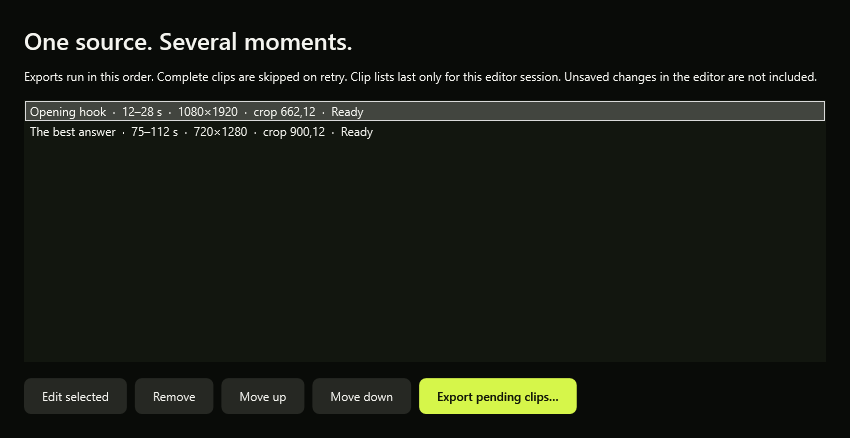
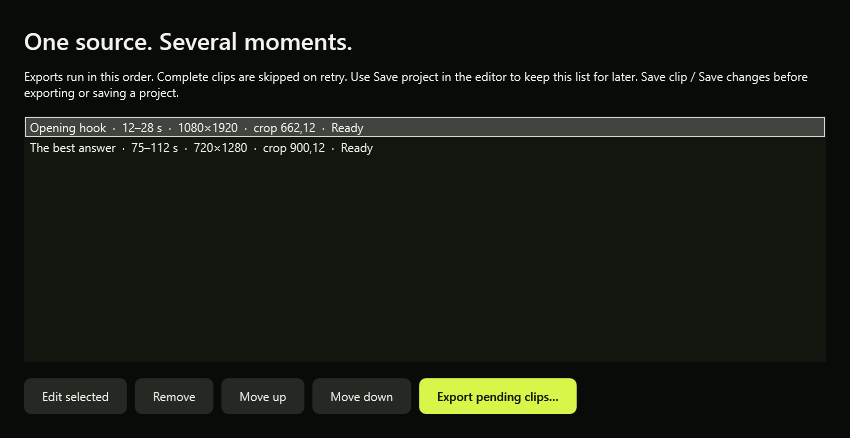
feat: save and reopen verified clip projects in v0.9.0

Changed region(s): [[0.0306, 0.1484, 0.9788, 0.3562]]

diff --git a/source/ClipProject.cs b/source/ClipProject.cs
@@ -1,0 +1,101 @@
+using System;
+using System.Collections.Generic;
+using System.IO;
+using System.Linq;
+using System.Security.Cryptography;
+using System.Text;
+using System.Threading;
+using System.Web.Script.Serialization;
+
+namespace ClearFrame {
+    public sealed class ClipRecipe {
+        public string Name;
+        public double Start, End;
+        public int X, Y, Width;
+        public NamedClip ToClip(){return new NamedClip{Name=Name,Start=Start,End=End,X=X,Y=Y,Width=Width};}
+    }
+    public sealed class ClipProjectData {
+        public int Version;
+        public string Kind, SourcePath, SourceSha256;
+        public long SourceLength;
+        public VideoInfo SourceInfo;
+        public List<ClipRecipe> Clips;
+    }
+    public static class ClipProject {
+        public const string Extension=".cfclips.json";
+        static JavaScriptSerializer Serializer(){return new JavaScriptSerializer{MaxJsonLength=1048576,RecursionLimit=16};}
+        public static List<ClipRecipe> Recipes(IEnumerable<NamedClip> clips){return clips.Select(c=>new ClipRecipe{Name=c.Name,Start=c.Start,End=c.End,X=c.X,Y=c.Y,Width=c.Width}).ToList();}
+        public static string Snapshot(string source,IEnumerable<NamedClip> clips){return Serializer().Serialize(new{Source=source,Clips=Recipes(clips)});}
+        public static void Validate(ClipProjectData data){
+            if(data==null||data.Kind!="ClearFrame clip project"||data.Version!=1)throw new InvalidDataException("This is not a supported ClearFrame clip project (version 1).");
+            if(string.IsNullOrWhiteSpace(data.SourcePath)||data.SourcePath.Length>32767||!Path.IsPathRooted(data.SourcePath)||data.SourceLength<=0||!System.Text.RegularExpressions.Regex.IsMatch(data.SourceSha256??"",@"^[a-f0-9]{64}$"))throw new InvalidDataException("The project source reference is invalid.");
+            Path.GetFullPath(data.SourcePath);
+            var info=data.SourceInfo;if(info==null||info.Width<18||info.Height<32||info.Width>65536||info.Height>65536||info.Width%2!=0||info.Height%2!=0||double.IsNaN(info.Duration)||double.IsInfinity(info.Duration)||info.Duration<=0||double.IsNaN(info.PixelAspect)||double.IsInfinity(info.PixelAspect)||Math.Abs(info.PixelAspect-1)>0.001)throw new InvalidDataException("The project source metadata is invalid.");
+            if(data.Clips==null||data.Clips.Count>ClipBatch.Limit)throw new InvalidDataException("A clip project can contain up to 50 saved clips.");
+            var names=new HashSet<string>(StringComparer.OrdinalIgnoreCase);foreach(var recipe in data.Clips){if(recipe==null)throw new InvalidDataException("The project contains an empty clip.");ClipBatch.Validate(recipe.ToClip(),info);if(!names.Add(recipe.Name))throw new InvalidDataException("The project contains duplicate clip names.");}
+        }
+        public static string Fingerprint(string source,CancellationToken token){
+            using(var stream=new FileStream(source,FileMode.Open,FileAccess.Read,FileShare.Read))using(var sha=SHA256.Create()){
+                var buffer=new byte[1048576];int read;while((read=stream.Read(buffer,0,buffer.Length))>0){token.ThrowIfCancellationRequested();sha.TransformBlock(buffer,0,read,buffer,0);}token.ThrowIfCancellationRequested();sha.TransformFinalBlock(new byte[0],0,0);return BitConverter.ToString(sha.Hash).Replace("-","").ToLowerInvariant();
+            }
+        }
+        public static ClipProjectData Capture(string source,VideoInfo info,IEnumerable<NamedClip> clips,CancellationToken token){
+            var file=new FileInfo(source);long length=file.Length;DateTime modified=file.LastWriteTimeUtc;
+            var data=new ClipProjectData{Kind="ClearFrame clip project",Version=1,SourcePath=Path.GetFullPath(source),SourceInfo=info,SourceLength=length,Clips=Recipes(clips),SourceSha256=Fingerprint(source,token)};
+            file.Refresh();if(file.Length!=length||file.LastWriteTimeUtc!=modified)throw new IOException("The source changed while the project was being saved. Try again.");Validate(data);return data;
+        }
+        public static ClipProjectData Read(string path){
+            using(var stream=new FileStream(path,FileMode.Open,FileAccess.Read,FileShare.Read)){
+                if(stream.Length>1048576)throw new InvalidDataException("The project exceeds the 1 MB size limit.");
+                using(var reader=new StreamReader(stream,Encoding.UTF8,true)){var data=Serializer().Deserialize<ClipProjectData>(reader.ReadToEnd());Validate(data);return data;}
+            }
+        }
+        public static void Save(string path,ClipProjectData data){
+            Validate(data);path=Path.GetFullPath(path);
+            if(!path.EndsWith(Extension,StringComparison.OrdinalIgnoreCase))throw new IOException("Save projects with the "+Extension+" extension.");
+            if(string.Equals(path,data.SourcePath,StringComparison.OrdinalIgnoreCase)||string.Equals(path+".bak",data.SourcePath,StringComparison.OrdinalIgnoreCase))throw new IOException("Choose a project filename separate from the source video.");
+            bool exists=File.Exists(path);
+            if(exists)Read(path); // Only replace a valid project, even when its extension looks correct.
+            if(exists&&File.Exists(path+".bak"))Read(path+".bak");
+            string temp=path+".tmp-"+Guid.NewGuid().ToString("N");
+            try{
+                byte[] bytes=Encoding.UTF8.GetBytes(Serializer().Serialize(data));using(var file=new FileStream(temp,FileMode.CreateNew,FileAccess.Write,FileShare.None)){file.Write(bytes,0,bytes.Length);file.Flush(true);}
+                if(exists)File.Replace(temp,path,path+".bak");else File.Move(temp,path);
+            }finally{if(File.Exists(temp))try{File.Delete(temp);}catch{}}
+        }
+        public static bool Matches(ClipProjectData project,string source,CancellationToken token){return new FileInfo(source).Length==project.SourceLength&&Fingerprint(source,token)==project.SourceSha256;}
+        public static void VerifyMetadata(ClipProjectData project,VideoInfo actual){
+            var saved=project.SourceInfo;if(actual.Width!=saved.Width||actual.Height!=saved.Height||Math.Abs(actual.Duration-saved.Duration)>0.1||actual.Audio!=saved.Audio||Math.Abs(actual.PixelAspect-saved.PixelAspect)>0.001)throw new InvalidDataException("The source metadata does not match this project.");
+            foreach(var clip in project.Clips)ClipBatch.Validate(clip.ToClip(),actual);
+        }
+        public static void Check(string directory,string report){
+            Directory.CreateDirectory(directory);int count=0;Action<bool,string> check=(ok,name)=>{if(!ok)throw new Exception(name);count++;};Action<Action,string> reject=(action,name)=>{bool failed=false;try{action();}catch{failed=true;}check(failed,name);};
+            string source=Path.Combine(directory,"source.bin"),path=Path.Combine(directory,"session"+Extension);File.WriteAllText(source,"synthetic video bytes");var info=new VideoInfo{Width=320,Height=180,Duration=3,Audio=true};
+            var clips=new[]{new NamedClip{Name="开场",Start=0,End=1,Width=720,State="Complete",Output="must-not-persist.mp4"},new NamedClip{Name="Answer",Start=1,End=3,X=230,Y=20,Width=1080}};
+            var data=Capture(source,info,clips,CancellationToken.None);Save(path,data);var restored=Read(path);check(restored.Clips.Count==2&&restored.Clips[0].Name=="开场"&&restored.Clips[1].X==230&&restored.Clips[1].End==3,"settings roundtrip");
+            check(restored.Clips[0].ToClip().State=="Ready"&&restored.Clips[0].ToClip().Output==""&&!File.ReadAllText(path).Contains("must-not-persist"),"no persisted completion or output authority");check(Matches(restored,source,CancellationToken.None),"original fingerprint matches");
+            string relocated=Path.Combine(directory,"relocated.bin");File.Copy(source,relocated);check(Matches(restored,relocated,CancellationToken.None),"relocated bytes match");File.WriteAllText(relocated,"different video byte");check(!Matches(restored,relocated,CancellationToken.None),"different source rejected");
+            using(var stop=new CancellationTokenSource()){stop.Cancel();reject(()=>Fingerprint(source,stop.Token),"hash cancellation");}
+            data.Clips[0].Name="Updated";Save(path,data);check(Read(path).Clips[0].Name=="Updated"&&Read(path+".bak").Clips[0].Name=="开场","atomic replacement retains previous project");
+            string previous=File.ReadAllText(path);using(var locked=new FileStream(path,FileMode.Open,FileAccess.Read,FileShare.None)){reject(()=>Save(path,data),"locked project save rejected");}check(File.ReadAllText(path)==previous&&Directory.GetFiles(directory,"*.tmp-*").Length==0,"failed save preserves project and clears temporary files");
+            string bad=Path.Combine(directory,"invalid"+Extension);File.WriteAllText(bad,"{broken");reject(()=>Read(bad),"invalid JSON");reject(()=>Save(bad,data),"corrupt project never overwritten");check(File.ReadAllText(bad)=="{broken","corrupt input retained");
+            data.Version=2;reject(()=>Validate(data),"future schema rejected");data.Version=1;data.Clips[1].Name="updated";reject(()=>Validate(data),"duplicate names");data.Clips[1].Name="Answer";data.Clips[1].Start=double.NaN;reject(()=>Validate(data),"non-finite range");data.Clips[1].Start=1;
+            info.PixelAspect=double.NaN;reject(()=>Validate(data),"non-finite pixel aspect");info.PixelAspect=1;data.Clips[1].X=232;reject(()=>Validate(data),"out-of-frame crop");data.Clips[1].X=230;
+            reject(()=>Save(Path.Combine(directory,"video.mp4"),data),"project extension required");data.SourcePath=path;reject(()=>Save(path,data),"source overwrite blocked");data.SourcePath=source;
+            string huge=Path.Combine(directory,"huge"+Extension);File.WriteAllText(huge,new string('x',1048577));reject(()=>Read(huge),"oversized project rejected");
+            reject(()=>VerifyMetadata(data,new VideoInfo{Width=640,Height=180,Duration=3,Audio=true}),"mismatched metadata rejected");
+            string snapshot=Snapshot(source,clips);clips[0].State="Failed";check(snapshot==Snapshot(source,clips),"export state does not dirty recipe");clips[0].End=2;check(snapshot!=Snapshot(source,clips),"range changes dirty recipe");
+            File.WriteAllText(path+".bak","keep damaged backup");reject(()=>Save(path,data),"damaged backup protected");check(File.ReadAllText(path)==previous&&File.ReadAllText(path+".bak")=="keep damaged backup","failed backup validation keeps both files");
+            data.Clips.Clear();string empty=Path.Combine(directory,"empty"+Extension);Save(empty,data);check(Read(empty).Clips.Count==0,"empty project roundtrip");File.WriteAllText(report,count+" clip-project checks passed.");
+        }
+        public static void CheckRestart(string directory,string phase){
+            string source=Path.Combine(directory,"restart-source.bin"),path=Path.Combine(directory,"restart"+Extension);Directory.CreateDirectory(directory);
+            if(phase=="write"){
+                File.WriteAllText(source,"project restart fixture");var info=new VideoInfo{Width=320,Height=180,Duration=4,Audio=true};Save(path,Capture(source,info,new[]{new NamedClip{Name="Restored clip",Start=1,End=3,X=100,Y=10,Width=720,State="Complete",Output="ignored.mp4"}},CancellationToken.None));
+            }else{
+                var data=Read(path);var clip=data.Clips.Single().ToClip();if(clip.Name!="Restored clip"||clip.Start!=1||clip.End!=3||clip.X!=100||clip.Y!=10||clip.Width!=720||clip.State!="Ready"||clip.Output!=""||!Matches(data,source,CancellationToken.None))throw new Exception("Project did not survive separate-process reopening.");
+                File.WriteAllText(Path.Combine(directory,"project-restart-checks.txt"),"PASS: separate application processes save and reopen named clip settings and verify the source; completion state resets to Ready without starting an export.");
+            }
+        }
+    }
+}

diff --git a/source/ClipBatchUI.cs b/source/ClipBatchUI.cs
@@ -21,10 +21,10 @@ namespace ClearFrame {
             foreach(var button in new[]{saveClip,newClip,reviewClips}){button.Margin=new Thickness(0,17,6,0);clipOptions.Children.Add(button);}
             saveClip.Click+=(s,e)=>SaveClip();newClip.Click+=(s,e)=>NewClip();reviewClips.Click+=(s,e)=>ReviewClips();
         }
-        void UpdateClipBatch(){clipName.IsEnabled=saveClip.IsEnabled=newClip.IsEnabled=!busy&&info!=null;reviewClips.IsEnabled=!busy&&savedClips.Count>0;reviewClips.Content="Clips ("+savedClips.Count+")…";saveClip.Content=editingClip==null?"Save clip":"Save changes";}
+        void UpdateClipBatch(){clipName.IsEnabled=saveClip.IsEnabled=newClip.IsEnabled=!busy&&info!=null;reviewClips.IsEnabled=!busy&&savedClips.Count>0;reviewClips.Content="Clips ("+savedClips.Count+")…";saveClip.Content=editingClip==null?"Save clip":"Save changes";UpdateClipProject();}
         void NewClip(){editingClip=null;int n=1;while(savedClips.Any(c=>string.Equals(c.Name,"Clip "+n,StringComparison.OrdinalIgnoreCase)))n++;clipName.Text="Clip "+n;UpdateClipBatch();}
-        bool CanDiscardClips(){return !savedClips.Any(c=>c.State!="Complete")||MessageBox.Show(window,"Unexported clips are saved only in this editor session. Discard this clip list? Exported videos are kept.","ClearFrame · Unsaved clips",MessageBoxButton.YesNo,MessageBoxImage.Question)==MessageBoxResult.Yes;}
-        void ResetClipBatch(){savedClips.Clear();NewClip();}
+        bool CanDiscardClips(){return !ProjectDirty()||MessageBox.Show(window,"Your clip list has changes that are not saved in a project. Continue without saving them? Choose No, then Save project to keep this list. Exported videos are kept.","ClearFrame · Unsaved project",MessageBoxButton.YesNo,MessageBoxImage.Question,MessageBoxResult.No)==MessageBoxResult.Yes;}
+        void ResetClipBatch(){savedClips.Clear();projectPath=null;projectSnapshot=null;NewClip();}
         void SaveClip(){
             if(busy||info==null||Mode()!="vertical")return;
             try{
@@ -33,7 +33,7 @@ namespace ClearFrame {
                 if(savedClips.Any(c=>c!=editingClip&&string.Equals(c.Name,clip.Name,StringComparison.OrdinalIgnoreCase)))throw new Exception("Another clip already uses this name. Choose a unique name.");
                 int index=editingClip==null?-1:savedClips.IndexOf(editingClip);
                 if(index<0){if(savedClips.Count>=ClipBatch.Limit)throw new Exception("This batch already has 50 clips. Remove one before adding more.");savedClips.Add(clip);}else savedClips[index]=clip;
-                editingClip=clip;UpdateClipBatch();status.Text="Saved “"+clip.Name+"” to this session's clip list. Choose New for another, or Clips to review and export.";
+                editingClip=clip;UpdateClipBatch();status.Text="Added “"+clip.Name+"” to the clip list. New adds another; Clips reviews/exports; Save project keeps the list for later.";
             }catch(Exception ex){status.Text=ex.Message;}
         }
         void LoadClip(NamedClip clip){editingClip=clip;clipName.Text=clip.Name;clipStart.Text=clip.Start.ToString("0.###",CultureInfo.InvariantCulture);clipEnd.Text=clip.End.ToString("0.###",CultureInfo.InvariantCulture);verticalSize.SelectedIndex=clip.Width==720?1:0;SetRectangle(clip.X,clip.Y,0,0);ClearFrames();UpdateClipBatch();status.Text="Editing “"+clip.Name+"”. Load a frame to preview, then Save changes to update the list.";}
@@ -41,7 +41,7 @@ namespace ClearFrame {
             var dialog=new Window{Title="ClearFrame · Clip batch",Width=850,Height=490,MinWidth=760,MinHeight=420,Owner=window.IsVisible?window:null,WindowStartupLocation=WindowStartupLocation.CenterOwner,Background=window.Background,Foreground=window.Foreground,Resources=window.Resources,FontFamily=window.FontFamily};
             var grid=new Grid{Margin=new Thickness(24)};foreach(var height in new[]{GridLength.Auto,GridLength.Auto,new GridLength(1,GridUnitType.Star),GridLength.Auto})grid.RowDefinitions.Add(new RowDefinition{Height=height});dialog.Content=grid;
             grid.Children.Add(new TextBlock{Text="One source. Several moments.",FontSize=24,FontWeight=FontWeights.SemiBold});
-            note=new TextBlock{Text="Exports run in this order. Complete clips are skipped on retry. Clip lists last only for this editor session. Unsaved changes in the editor are not included.",TextWrapping=TextWrapping.Wrap,Margin=new Thickness(0,12,0,16)};Grid.SetRow(note,1);grid.Children.Add(note);
+            note=new TextBlock{Text="Exports run in this order. Complete clips are skipped on retry. Use Save project in the editor to keep this list for later. Save clip / Save changes before exporting or saving a project.",TextWrapping=TextWrapping.Wrap,Margin=new Thickness(0,12,0,16)};Grid.SetRow(note,1);grid.Children.Add(note);
             list=new ListBox{ItemsSource=savedClips,DisplayMemberPath="Summary",Background=new SolidColorBrush(Color.FromRgb(18,22,15)),Foreground=window.Foreground,BorderThickness=new Thickness(0),SelectedIndex=savedClips.Count>0?0:-1};Grid.SetRow(list,2);grid.Children.Add(list);
             var row=new WrapPanel{Margin=new Thickness(0,16,0,0)};Grid.SetRow(row,3);grid.Children.Add(row);
             var edit=new Button{Content="Edit selected"};var remove=new Button{Content="Remove"};var up=new Button{Content="Move up"};var down=new Button{Content="Move down"};var run=new Button{Content="Export pending clips…",Style=(Style)window.FindResource("Primary")};
@@ -49,7 +49,7 @@ namespace ClearFrame {
             var items=list;var message=note;
             edit.Click+=(s,e)=>{var clip=items.SelectedItem as NamedClip;if(clip==null)return;LoadClip(clip);dialog.Close();};
             remove.Click+=(s,e)=>{var clip=items.SelectedItem as NamedClip;if(clip==null)return;savedClips.Remove(clip);if(editingClip==clip)NewClip();items.Items.Refresh();UpdateClipBatch();run.IsEnabled=savedClips.Any(c=>c.State!="Complete");message.Text="Removed from this clip list. Any exported video is kept.";};
-            Action<int> move=offset=>{int index=items.SelectedIndex,target=index+offset;if(index<0||target<0||target>=savedClips.Count)return;var clip=savedClips[index];savedClips.RemoveAt(index);savedClips.Insert(target,clip);items.Items.Refresh();items.SelectedItem=clip;};up.Click+=(s,e)=>move(-1);down.Click+=(s,e)=>move(1);
+            Action<int> move=offset=>{int index=items.SelectedIndex,target=index+offset;if(index<0||target<0||target>=savedClips.Count)return;var clip=savedClips[index];savedClips.RemoveAt(index);savedClips.Insert(target,clip);items.Items.Refresh();items.SelectedItem=clip;UpdateClipBatch();};up.Click+=(s,e)=>move(-1);down.Click+=(s,e)=>move(1);
             run.IsEnabled=savedClips.Any(c=>c.State!="Complete");run.Click+=async(s,e)=>{dialog.Close();await ExportClipBatch();};return dialog;
         }
         void ReviewClips(){if(busy)return;ListBox list;TextBlock note;BatchWindow(out list,out note).ShowDialog();}

diff --git a/source/ClipProjectUI.cs b/source/ClipProjectUI.cs
@@ -1,0 +1,62 @@
+using System;
+using System.IO;
+using System.Linq;
+using System.Threading;
+using System.Threading.Tasks;
+using System.Windows;
+using System.Windows.Controls;
+using Microsoft.Win32;
+
+namespace ClearFrame {
+    public partial class VideoCleanup {
+        readonly Button openProject=new Button{Content="Open project…"},saveProject=new Button{Content="Save project…"};
+        string projectPath,projectSnapshot;
+        bool ProjectDirty(){return (savedClips.Count>0||projectSnapshot!=null)&&ClipProject.Snapshot(input,savedClips)!=projectSnapshot;}
+        void SetupClipProject(DockPanel heading){
+            foreach(var button in new[]{openProject,saveProject}){button.Margin=new Thickness(0,0,8,0);DockPanel.SetDock(button,Dock.Right);heading.Children.Insert(0,button);}
+            openProject.Click+=async(s,e)=>await OpenClipProject();saveProject.Click+=async(s,e)=>await SaveClipProject();
+        }
+        void UpdateClipProject(){
+            openProject.Visibility=saveProject.Visibility=Mode()=="vertical"?Visibility.Visible:Visibility.Collapsed;
+            openProject.IsEnabled=!busy;saveProject.IsEnabled=!busy&&info!=null;
+            saveProject.Content=ProjectDirty()?"Save project *":"Save project…";saveProject.ToolTip=projectPath??"Save your clip list to reopen later. Save clip first to include editor changes.";
+        }
+        async Task SaveClipProject(){
+            if(busy||info==null)return;
+            var dialog=new SaveFileDialog{Filter="ClearFrame clip project|*"+ClipProject.Extension,DefaultExt=ClipProject.Extension,AddExtension=true,OverwritePrompt=true,FileName=projectPath==null?Path.GetFileNameWithoutExtension(input)+ClipProject.Extension:Path.GetFileName(projectPath),InitialDirectory=Path.GetDirectoryName(projectPath??input)};
+            if(dialog.ShowDialog(window)!=true)return;SetBusy(true);cancellation=new CancellationTokenSource();
+            try{
+                status.Text="Checking the source video and saving the project. Large videos may take a moment; Cancel stops the check.";
+                var metadata=CleanupCore.ReadInfo(await Probe(input,cancellation.Token));
+                var clips=savedClips.ToArray();var data=await Task.Run(()=>ClipProject.Capture(input,info,clips,cancellation.Token));ClipProject.VerifyMetadata(data,metadata);cancellation.Token.ThrowIfCancellationRequested();
+                ClipProject.Save(dialog.FileName,data);projectPath=Path.GetFullPath(dialog.FileName);projectSnapshot=ClipProject.Snapshot(input,savedClips);status.Text="Project saved: "+Path.GetFileName(projectPath)+". Keep the source video; it is not embedded. Reopened clips start Ready.";
+            }catch(OperationCanceledException){status.Text="Project save cancelled. Existing project and clip list kept.";}catch(Exception ex){status.Text="Project was not saved: "+ex.Message;}
+            finally{cancellation.Dispose();cancellation=null;SetBusy(false);}
+        }
+        void ApplyClipProject(ClipProjectData project,string source,VideoInfo metadata,string path){
+            input=source;info=metadata;ResetClipBatch();savedClips.AddRange(project.Clips.Select(c=>c.ToClip()));outputFile=null;progress.Value=0;
+            fileLabel.Text=Path.GetFileName(source)+" · "+info.Width+" × "+info.Height+" · "+TimeSpan.FromSeconds(info.Duration).ToString(@"hh\:mm\:ss");
+            if(savedClips.Count>0)LoadClip(savedClips[0]);else{ClearFrames();seconds.Text="0";clipStart.Text="0";clipEnd.Text=info.Duration.ToString("0.###",System.Globalization.CultureInfo.InvariantCulture);SetVerticalCrop();NewClip();}
+            projectPath=path.EndsWith(".bak",StringComparison.OrdinalIgnoreCase)?path.Substring(0,path.Length-4):path;projectSnapshot=ClipProject.Snapshot(input,savedClips);UpdateClipBatch();
+            status.Text="Opened "+Path.GetFileName(path)+" · "+savedClips.Count+" clips ready. Load frame to preview. Existing exports stay protected; choose a new folder or names to export again.";
+        }
+        async Task OpenClipProject(){
+            if(busy)return;var dialog=new OpenFileDialog{Filter="ClearFrame clip projects|*"+ClipProject.Extension+";*"+ClipProject.Extension+".bak|All files|*.*"};if(dialog.ShowDialog(window)!=true||!CanDiscardClips())return;
+            SetBusy(true);cancellation=new CancellationTokenSource();
+            try{
+                var project=ClipProject.Read(dialog.FileName);string source=project.SourcePath;
+                if(!File.Exists(source)){string adjacent=Path.Combine(Path.GetDirectoryName(dialog.FileName),Path.GetFileName(source));source=File.Exists(adjacent)?adjacent:null;}
+                status.Text="Checking the project's source video. Large videos may take a moment; Cancel stops the check.";
+                bool matches=source!=null&&await Task.Run(()=>ClipProject.Matches(project,source,cancellation.Token));
+                if(!matches){
+                    var locate=new OpenFileDialog{Title="Locate the original video for "+Path.GetFileName(project.SourcePath),Filter="Video files|*.mp4;*.mkv;*.mov;*.webm;*.avi;*.m4v|All files|*.*"};
+                    if(locate.ShowDialog(window)!=true){status.Text="Project open cancelled. Your current clip list is kept.";return;}source=locate.FileName;
+                    status.Text="Verifying the selected source matches the saved project…";
+                    if(!await Task.Run(()=>ClipProject.Matches(project,source,cancellation.Token)))throw new Exception("That file does not match the original video. Choose the unchanged original, even if it has been renamed or moved.");
+                }
+                var metadata=CleanupCore.ReadInfo(await Probe(source,cancellation.Token));ClipProject.VerifyMetadata(project,metadata);cancellation.Token.ThrowIfCancellationRequested();ApplyClipProject(project,source,metadata,Path.GetFullPath(dialog.FileName));
+            }catch(OperationCanceledException){status.Text="Project open cancelled. Your current clip list is kept.";}catch(Exception ex){status.Text="Could not open project: "+ex.Message+" Your current clip list is kept.";}
+            finally{cancellation.Dispose();cancellation=null;SetBusy(false);}
+        }
+    }
+}

diff --git a/source/VideoCleanup.cs b/source/VideoCleanup.cs
@@ -127,7 +127,7 @@ namespace ClearFrame {
             var layout = new Grid { Margin = new Thickness(24) };
             foreach (var height in new[] { GridLength.Auto, GridLength.Auto, new GridLength(1,GridUnitType.Star), GridLength.Auto, GridLength.Auto, GridLength.Auto }) layout.RowDefinitions.Add(new RowDefinition { Height = height });
             var heading = new DockPanel { Margin = new Thickness(0,0,0,15) };
-            DockPanel.SetDock(open, Dock.Right); heading.Children.Add(open); heading.Children.Add(editorHeading); layout.Children.Add(heading);
+            DockPanel.SetDock(open, Dock.Right); heading.Children.Add(open); heading.Children.Add(editorHeading);SetupClipProject(heading); layout.Children.Add(heading);
             fileLabel.Margin = new Thickness(0,0,0,12); Grid.SetRow(fileLabel,1); layout.Children.Add(fileLabel);
             var frame = new Grid { Background = Brushes.Black, MinHeight = 200, ClipToBounds = true }; frame.Children.Add(picture); frame.Children.Add(canvas); canvas.Children.Add(selection); Grid.SetRow(frame,2); layout.Children.Add(frame);
             var optionRows=new StackPanel{Margin=new Thickness(0,14,0,10)};Grid.SetRow(optionRows,3);layout.Children.Add(optionRows);var options=new WrapPanel();optionRows.Children.Add(options);
@@ -221,6 +221,12 @@ namespace ClearFrame {
             LoadClip(savedClips[0]);check(clipName.Text=="Opening"&&Region()[0]==20&&clipEnd.Text=="2"&&picture.Source==null,"edit restores saved settings and clears stale preview");
             SetBusy(true);check(!saveClip.IsEnabled&&!newClip.IsEnabled&&!reviewClips.IsEnabled&&!clipName.IsEnabled,"batch controls disabled while processing");SetBusy(false);
             savedClips[0].State="Complete";SaveClip();check(savedClips[0].State=="Ready"&&savedClips[0].Output=="","editing completed clip creates pending revision");
+            check(ProjectDirty(),"unsaved clip list is dirty");projectSnapshot=ClipProject.Snapshot(input,savedClips);check(!ProjectDirty(),"successful project snapshot clears dirty state");
+            savedClips[0].State="Complete";check(!ProjectDirty(),"export completion does not change project recipes");savedClips.RemoveAt(1);check(ProjectDirty(),"removal changes project recipes");
+            var projectFixture=new ClipProjectData{Clips=ClipProject.Recipes(savedClips)};ApplyClipProject(projectFixture,"restored-source.mp4",info,"restored.cfclips.json");
+            check(savedClips.Count==1&&savedClips[0].State=="Ready"&&outputFile==null&&!ProjectDirty()&&picture.Source==null,"project restores ready clips without stale output or preview");
+            SetBusy(true);check(!openProject.IsEnabled&&!saveProject.IsEnabled,"project actions disabled during processing");SetBusy(false);
+            savedClips.Clear();check(ProjectDirty()&&saveProject.IsEnabled,"emptying project remains saveable and dirty");
             ResetClipBatch();check(savedClips.Count==0&&editingClip==null&&!reviewClips.IsEnabled,"new source clears session batch");
             method.SelectedIndex=0;check(clipOptions.Visibility==Visibility.Collapsed&&fields[2].IsEnabled,"leaving vertical restores cleanup controls");
             File.WriteAllText(report,checks+" offline editor control checks passed.");

diff --git a/tests/CleanupMediaTests.cs b/tests/CleanupMediaTests.cs
@@ -27,6 +27,10 @@ class CleanupMediaTests {
             Run(ffmpeg, "-hide_banner", "-loglevel", "error", "-y", "-f", "lavfi", "-i", "testsrc2=size=320x180:rate=24:duration=1.5,drawbox=x=260:y=20:w=40:h=20:color=white:t=fill", "-f", "lavfi", "-i", "sine=frequency=440:sample_rate=48000:duration=1.5", "-c:v", "libx264", "-pix_fmt", "yuv420p", "-c:a", "aac", "-shortest", source);
             byte[] original = File.ReadAllBytes(source); var info = CleanupCore.ReadInfo(Probe(source));
             BatchChecks(source,info,args[1],log);
+            string projectFolder=Path.Combine(args[1],"project-"+Guid.NewGuid().ToString("N"));Directory.CreateDirectory(projectFolder);string projectPath=Path.Combine(projectFolder,"clips.cfclips.json");
+            ClipProject.Save(projectPath,ClipProject.Capture(source,info,new[]{new NamedClip{Name="Reopened clip",Start=0.25,End=1.25,X=100,Y=10,Width=720,State="Complete"}},CancellationToken.None));
+            var reopened=ClipProject.Read(projectPath);string movedSource=Path.Combine(projectFolder,"renamed-source.mp4");File.Copy(source,movedSource);if(!ClipProject.Matches(reopened,movedSource,CancellationToken.None))throw new Exception("Relocated project source rejected.");var movedInfo=CleanupCore.ReadInfo(Probe(movedSource));ClipProject.VerifyMetadata(reopened,movedInfo);var reopenedClips=reopened.Clips.Select(c=>c.ToClip()).ToList();
+            ClipBatch.Export(ffmpeg,ffprobe,movedSource,movedInfo,reopenedClips,projectFolder,CancellationToken.None,null).GetAwaiter().GetResult();VerticalClips.Verify(Probe(reopenedClips[0].Output),info,720,0.25,1.25);log.AppendLine("PASS: saved project reopens against renamed identical source and exports a verified clip with restored range, crop and size.");
             foreach(int width in new[]{720,1080}){
                 string vertical=Path.Combine(args[1],"vertical-"+width+"-"+Guid.NewGuid().ToString("N")+".mp4");
                 var verticalArgs=VerticalClips.ExportArgs(source,vertical,info,230,10,width,0.25,1.25);Run(ffmpeg,verticalArgs.ToArray());VerticalClips.Verify(Probe(vertical),info,width,0.25,1.25);

diff --git a/source/ClearFrame.cs b/source/ClearFrame.cs
@@ -327,6 +327,8 @@ namespace ClearFrame {
     var app=new Application();app.DispatcherUnhandledException+=(s,e)=>{MessageBox.Show(e.Exception.Message,"ClearFrame");e.Handled=true;};
     if(args.Length>1&&args[0]=="--check-vertical"){VerticalClips.Check(args[1]);return 0;}
     if(args.Length>1&&args[0]=="--check-batch-clips"){ClipBatch.Check(args[1]);return 0;}
+    if(args.Length>2&&args[0]=="--check-clip-projects"){ClipProject.Check(args[1],args[2]);return 0;}
+    if(args.Length>2&&args[0]=="--check-project-restart"){ClipProject.CheckRestart(args[1],args[2]);return 0;}
     if(args.Length>1&&args[0]=="--render-clip-batch"){var owner=new MainWindow(true);new VideoCleanup(owner.Window,"","",false,true).RenderClipBatch(args[1]);return 0;}
     if(args.Length>1&&args[0]=="--render-vertical"){var owner=new MainWindow(true);new VideoCleanup(owner.Window,"","",false,true).Render(args[1],args.Length>2?args[2]:null);return 0;}
     if(args.Length>1&&args[0]=="--render-converter"){var owner=new MainWindow(true);new VideoCleanup(owner.Window,"","",true).Render(args[1],args.Length>2?args[2]:null);return 0;}

diff --git a/docs/CLIPPING.md b/docs/CLIPPING.md
@@ -25,7 +25,23 @@ The source and existing files are never overwritten. Cancel stops the export and
 5. ClearFrame validates all pending ranges and target filenames before starting. If any target already exists, rename that clip or choose another folder. It exports sequentially and verifies each clip before publishing its final file.
 6. **Cancel** stops the batch and keeps completed clips. If cancelled or stopped by an error, review the list and export again: completed clips are skipped, while ready, cancelled and failed clips are retried. You can select a different folder for those remaining clips. Existing files are never overwritten, including files created by another program after the initial check.
 
-**Clip lists exist only in the current editor session.** Closing the editor or opening another source asks before discarding unexported saved clips. Lists are not restored after a restart or crash; exported videos remain on disk. Saving changes to a completed clip makes that revision pending again: rename it or use another folder if its previous output still exists.
+Saving changes to a completed clip makes that revision pending again: rename it or use another folder if its previous output still exists.
+
+## Save a project and continue later
+
+1. Use **Save clip / Save changes** to put your latest editor settings into the list, then choose **Save project** at the top of the editor. Pick a `.cfclips.json` filename. You can also save an empty project after opening a source video.
+2. Keep the original video. The project stores its location and fingerprint, plus clip names, order, ranges, crop positions and output sizes. It does **not** embed video, copy exports or save uncommitted changes in the editor fields.
+3. Later, open the vertical editor and choose **Open project…**. ClearFrame checks the source file before applying the saved settings. Select **Load frame** to preview the restored first clip.
+4. If the source moved, ClearFrame tries the original path, then a same-named file beside the project when the original path is missing. Otherwise, use the file picker to locate the unchanged original. A byte-for-byte copy can be renamed or moved; a re-encoded or modified video will not match. A failed or cancelled open keeps your current clip list.
+5. Choose **Save project** again after changing names, ranges, crops or order. An asterisk indicates that the saved clip list differs from the last saved/opened project. Closing or replacing the source asks before discarding those changes. Save is manual: changes after your last save are not recovered from a crash.
+
+Project saves and opens read the source to check its fingerprint, so large videos can take time. **Cancel** stops this check. No video upload or network service is involved.
+
+**Every reopened clip starts Ready.** Projects preserve editing settings, not the session's completed/failed/exporting states or output paths. Nothing exports automatically. Choose another destination or new names if earlier exports already exist; existing files are never overwritten. Within an uninterrupted editor session, batch retry still skips completed clips.
+
+Saving over a valid project replaces it atomically and retains the previous version as `.cfclips.json.bak`. **Open project** can read this backup. If a project or its existing backup is damaged, saving over it is refused to preserve the damaged file; save under a new name instead. Unknown project versions, invalid settings and files larger than 1 MB are rejected.
+
+To move a project to another PC, copy both the project and its unchanged source video. The project contains the original source path, including folder names; review that local path before sharing the project publicly.
 
 ## What this version supports
 
@@ -33,6 +49,6 @@ The source and existing files are never overwritten. Cancel stops the export and
 - The largest even-pixel 9:16 crop that fits inside the source, positioned manually. It stays in the same place throughout the clip; it does not track faces or moving subjects.
 - H.264 High profile, 8-bit YUV 4:2:0 and AAC LC in MP4. The first audio track is used; silent videos are supported. Extra audio tracks, subtitles, chapters and source metadata are not copied.
 - The crop is resized to the chosen output size. A landscape 1080p video contains fewer pixels in its portrait crop, so a 1080×1920 export can involve enlargement. This does not create missing detail. Exports re-encode and can change quality and file size.
-- Single exports or batches of up to 50 named clips, with a still-frame preview. Automatic highlights, face tracking, saved project files, styled captions, a playback timeline and direct platform uploads are not included.
+- Single exports or batches of up to 50 named clips, with saved project files and a still-frame preview. Automatic highlights, face tracking, autosave, styled captions, a playback timeline and direct platform uploads are not included.
 
 For full-video codec repair, choose **••• > Convert a video for Windows…**. For fixed logo blending, blur or freeform cropping, see [Video cleanup](VIDEO-CLEANUP.md).

diff --git a/docs/USER-GUIDE.md b/docs/USER-GUIDE.md
@@ -1,10 +1,11 @@
-# ClearFrame 0.8.0 for Windows
+# ClearFrame 0.9.0 for Windows
 
 A portable desktop downloader for YouTube videos, with source-quality video and sound, from 360p through 8K and uncapped best available.
 
 ## New in this version
 
-- **Named clip batches:** save up to 50 clip ranges from one local video, with independent crops and output sizes. Review, edit, remove or reorder them, then export pending clips to a folder. Cancellation and failures keep completed outputs; retry skips those completed clips. Clip lists last only for the open editor session. See [CLIPPING.md](CLIPPING.md).
+- **Saved clip projects:** use **Save project** and **Open project** in the vertical editor to continue later. Projects keep your saved clip settings and verify the original source; a moved video can be located again. Save is manual, and reopened clips start Ready. See [CLIPPING.md](CLIPPING.md) for backups, relinking and workflow details.
+- **Named clip batches:** save up to 50 clip ranges from one local video, with independent crops and output sizes. Review, edit, remove or reorder them, then export pending clips to a folder. Cancellation and failures keep completed outputs; retry skips those completed clips within the current session.
 - **Vertical clips:** choose **••• > Create a vertical clip (9:16)…**, open a local video, set start/end times and position the crop. Export a separate 1080×1920 or 720×1280 H.264/AAC MP4. See [CLIPPING.md](CLIPPING.md) for the workflow and resizing limits.
 - **Convert a video for Windows:** the **•••** menu now repairs playback compatibility by exporting an existing SDR video as a new H.264/AAC MP4. The full picture and first audio track are retained; source files are kept.
 - **Scheduling fix:** a scheduled queue waits while a modal editor or dialog is open, then starts when the application is ready.

diff --git a/CHANGELOG.md b/CHANGELOG.md
@@ -4,6 +4,19 @@ Changes follow semantic versioning. During `0.x`, minor releases may change beha
 
 ## [Unreleased]
 
+## [0.9.0] - 2026-10-08
+
+### Added
+
+- Save and open `.cfclips.json` projects containing the source reference and up to 50 named clip recipes, including order, ranges, crops and output sizes. Empty projects are supported after opening a source.
+- Source fingerprint verification and relinking for renamed or moved unchanged videos. Failed or cancelled project opens preserve the current clip list.
+- Atomic project saves with a previous-version backup, strict schema/settings validation, size limits and protection for corrupt projects or backups. Save is manual; a dirty marker and discard prompt identify unsaved list changes.
+- Reopened clips start Ready without restoring completion state or automatically starting exports. Existing output files remain protected.
+
+### Verified
+
+- Twenty-six project checks, thirty-seven editor-control checks, separate-process project reopening, and a real media export using settings reopened against a renamed source.
+
 ## [0.8.0] - 2026-10-08
 
 ### Added
@@ -166,7 +179,8 @@ Changes follow semantic versioning. During `0.x`, minor releases may change beha
 - Playlist expansion, scheduled downloads, clips and account-required downloads are not implemented.
 - Live network tests covered short clips; full interactive restart/resume testing is not complete.
 
-[Unreleased]: https://github.com/spade-codee/clearframe/compare/v0.8.0...HEAD
+[Unreleased]: https://github.com/spade-codee/clearframe/compare/v0.9.0...HEAD
+[0.9.0]: https://github.com/spade-codee/clearframe/releases/tag/v0.9.0
 [0.8.0]: https://github.com/spade-codee/clearframe/releases/tag/v0.8.0
 [0.7.0]: https://github.com/spade-codee/clearframe/releases/tag/v0.7.0
 [0.6.1]: https://github.com/spade-codee/clearframe/releases/tag/v0.6.1

diff --git a/README.md b/README.md
@@ -31,7 +31,8 @@ The [clip range dialog](docs/clip-options.png) explains the full-source download
 - Formats: MP4, MKV, WebM and MOV; audio-only MP3 and M4A.
 - Compatible H.264/AAC MP4 by default for Windows playback. Advanced codecs remain opt-in and may require additional player support.
 - [Vertical clips for Shorts/TikTok](docs/CLIPPING.md): open a local video, choose start/end times, position a fixed 9:16 crop and export at 1080×1920 or 720×1280. Still-frame previews and separate H.264/AAC MP4 outputs; resizing a small crop does not add detail.
-- Batch up to 50 named clips from one local video, each with its own range, crop and output size. Edit/reorder the list, export sequentially and retry unfinished clips while keeping completed outputs. Clip lists last for the current editor session.
+- Batch up to 50 named clips from one local video, each with its own range, crop and output size. Edit/reorder the list, export sequentially and retry unfinished clips while keeping completed outputs.
+- Save clip projects and reopen them later, with source-file verification, relinking moved originals and a previous-save backup. Projects store settings, not video; reopened clips start Ready and never export automatically.
 - Built-in **Convert a video for Windows** creates a separate H.264/AAC copy of an existing SDR video, without downloading it again.
 - Batches of up to 100 individual YouTube links, with validation and deduplication.
 - Playlist picker for choosing videos from the first 200 entries, with unavailable-item indicators and cancellation.

diff --git a/docs/TEST-RESULTS.md b/docs/TEST-RESULTS.md
@@ -1,5 +1,13 @@
 # Verification — 8 October 2026
 
+## Version 0.9.0
+
+- Twenty-six project checks passed for recipe roundtrips, empty projects, source fingerprints, renamed identical sources, mismatched sources, cancellation, atomic replacement and backups, locked/corrupt files, invalid schema/settings, duplicate names, overwrite protection, size limits and dirty snapshots.
+- Separate application processes saved and reopened a project, restoring name/range/crop/size while resetting completion state to Ready. Source identity matched and no export started automatically.
+- Thirty-seven offline editor-control checks passed, including restored project state, cleared previews/output paths, dirty-state behavior and busy actions.
+- A saved project was reopened against a renamed byte-identical synthetic video and used to export a verified 720×1280 H.264/AAC clip. This passed with the prior 33 cleanup/batch/vertical/converter media cases and nine other clip-media cases. Existing offline suites passed.
+- Project buttons and batch review were rendered offline and visually inspected. Full manual save/open/relink/confirmation click-through remains unverified. No new live YouTube download was performed.
+
 ## Version 0.8.0
 
 - Twenty batch-clip validation checks passed for Windows filenames, reserved device names, Unicode names, case-insensitive duplicates, clip ranges and crop bounds, empty/oversized batches, order, and existing file/directory collisions.

diff --git a/docs/ROADMAP.md b/docs/ROADMAP.md
@@ -2,7 +2,7 @@
 
 These are proposed features, not implemented promises or scheduled work.
 
-- Save and reopen clip projects across sessions. Named ranges and sequential batch export are available now within an editor session.
+- Autosave and crash recovery for clip projects. Manual project saving, reopening and source relinking are available now.
 - A playback timeline, caption styling and subject tracking for vertical clips.
 - Browse additional playlist pages beyond the first 200 entries.
 - Download only the requested time range over the network, with clear keyframe/precision tradeoffs. Current clips download the full source before trimming.
